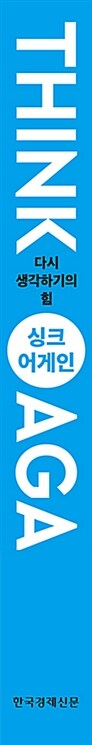
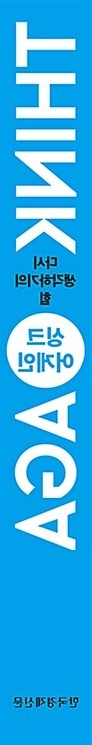
Update on process for book fliping

diff --git a/css/sub.css b/css/sub.css
@@ -210,7 +210,7 @@
 
 
 .Bcoverwrap #divFlipImg {
-    opacity: 1
+    opacity: 1;
 }
 
 .Bcoverwrap .cover .swiper_section {
@@ -223,10 +223,6 @@
     transition: 0.5s;
 }
 
-/* .Bcoverwrap .cover .swiper_section .swiper_wrapper .swiper_item .imgbox{
-    border: 1px solid #ccc;
-    padding: 1rem;
-} */
 
 .Bcoverwrap .cover {
     position: relative;
@@ -285,6 +281,7 @@
     height: 100%;
     top: 0;
     left: 0;
+
     -webkit-transition: opacity 1s ease-in-out;
     -moz-transition: opactiy 1s ease-in-out;
     -ms-transition: opacity 1s ease-in-out;
@@ -373,10 +370,6 @@
 
 /*--- 도서 회전 속성 ---*/
 
-#divFlipImg .book .imgbox {
-    /* border: 1px solid #ddd; */
-}
-
 #divFlipImg .book li {
     -webkit-perspective: 1800px;
     -moz-perspective: 1800px;
@@ -390,7 +383,6 @@
 #divFlipImg section {
     width: 100%;
     height: 100%;
-    /* margin: 100px auto; */
     display: flex;
     justify-content: center;
     align-items: center;
@@ -429,7 +421,8 @@
     position: absolute;
     width: 58px;
     height: 100%;
-    transform-origin: left;
+    /* transform-origin: left top; */
+    transform-origin: left top;
     background: url("../img/sub_book-left.jpg");
     background-position: center;
     transform: rotateY(90deg);
@@ -444,7 +437,8 @@
     position: absolute;
     width: 100%;
     height: 100%;
-    transform-origin: center;
+    /* transform-origin: top center; */
+    transform-origin: 0% 50% 50%;
     background: url("../img/sub_book-back.jpg");
     background-position: center;
     transform: rotateY(180deg) translateZ(58px);

diff --git a/js/BookRotation.js b/js/BookRotation.js
@@ -1,6 +1,5 @@
 $(function () {
     var isRotated = false;
-
     $(".book").click(function () {
         if (isRotated) {
             $(this).css("transform", "rotateY(35deg)");
@@ -14,7 +13,7 @@ $(function () {
     $(".book").hover(
         function () {
             if (!isRotated) {
-                $(this).css("transform", "rotateY(35deg)").css("transform-origin","top center");
+                $(this).css("transform", "rotateY(35deg)");
                 $("#divFlipImg .coverItem").show();
             }
         },

diff --git a/sub.html b/sub.html
@@ -2177,7 +2177,7 @@
                         id="divFlipImg"
                     >
                         <section>
-                            <div class="book">
+                            <div class="book" style="transform-origin: top !important;">
                                 <img
                                     class="imgbox"
                                     src="./img/sub_book-front.jpg"
